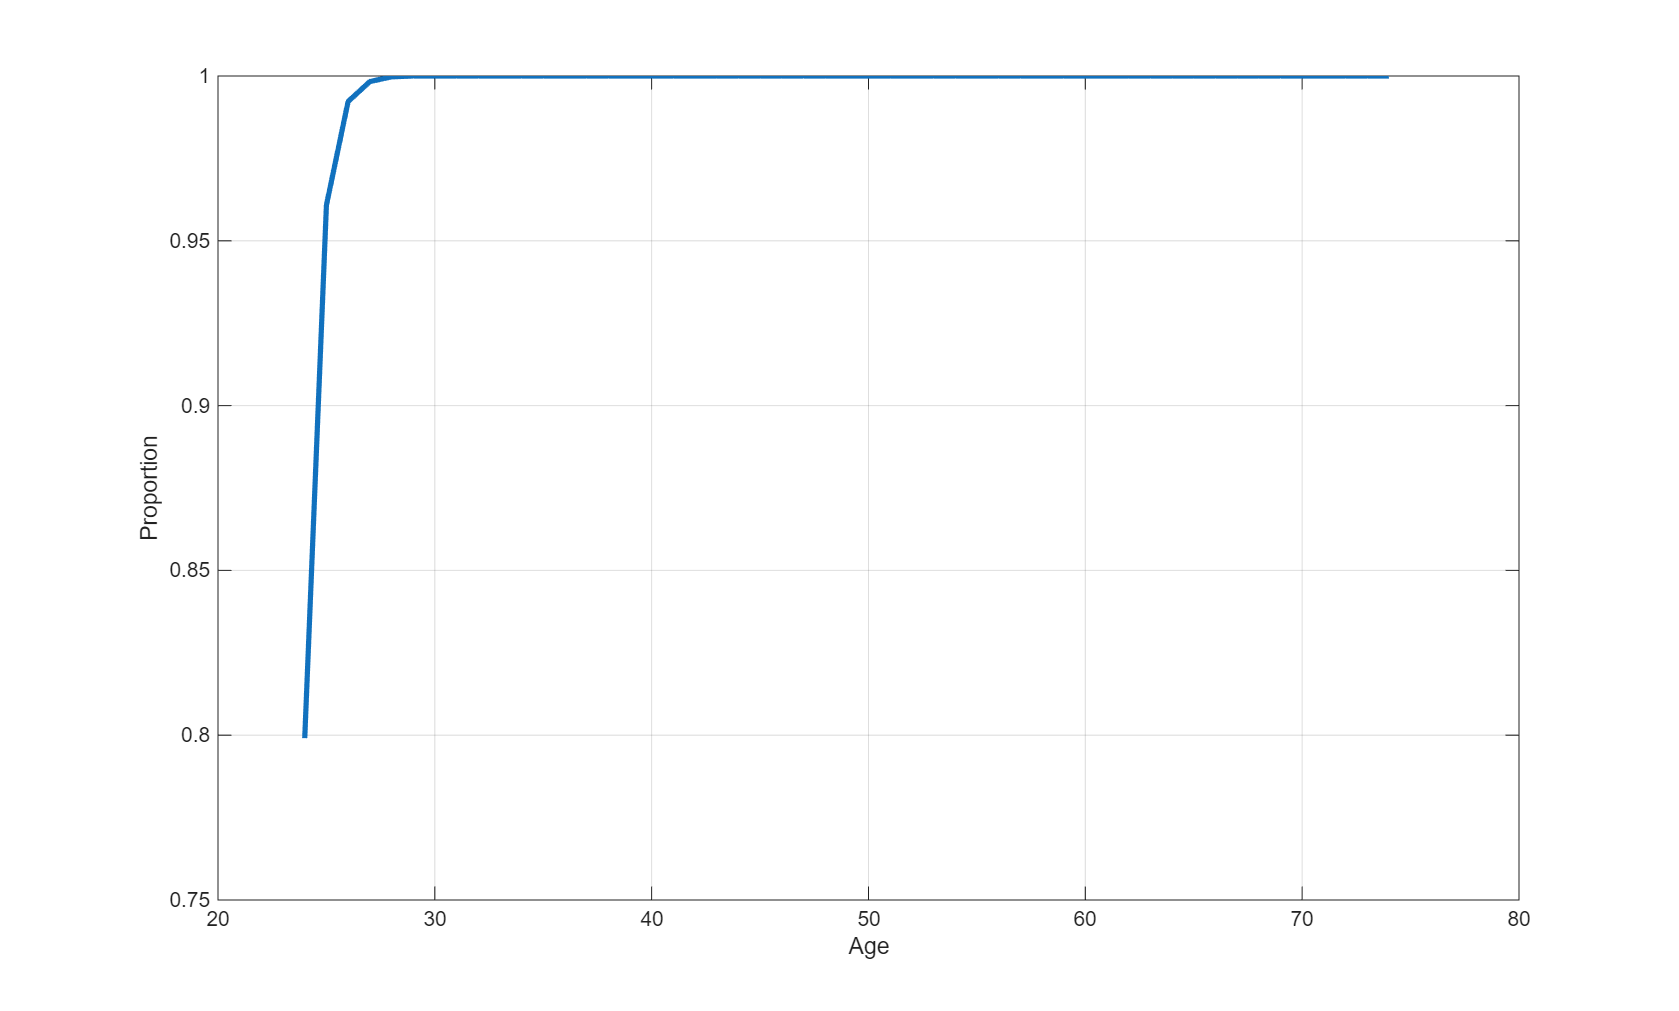
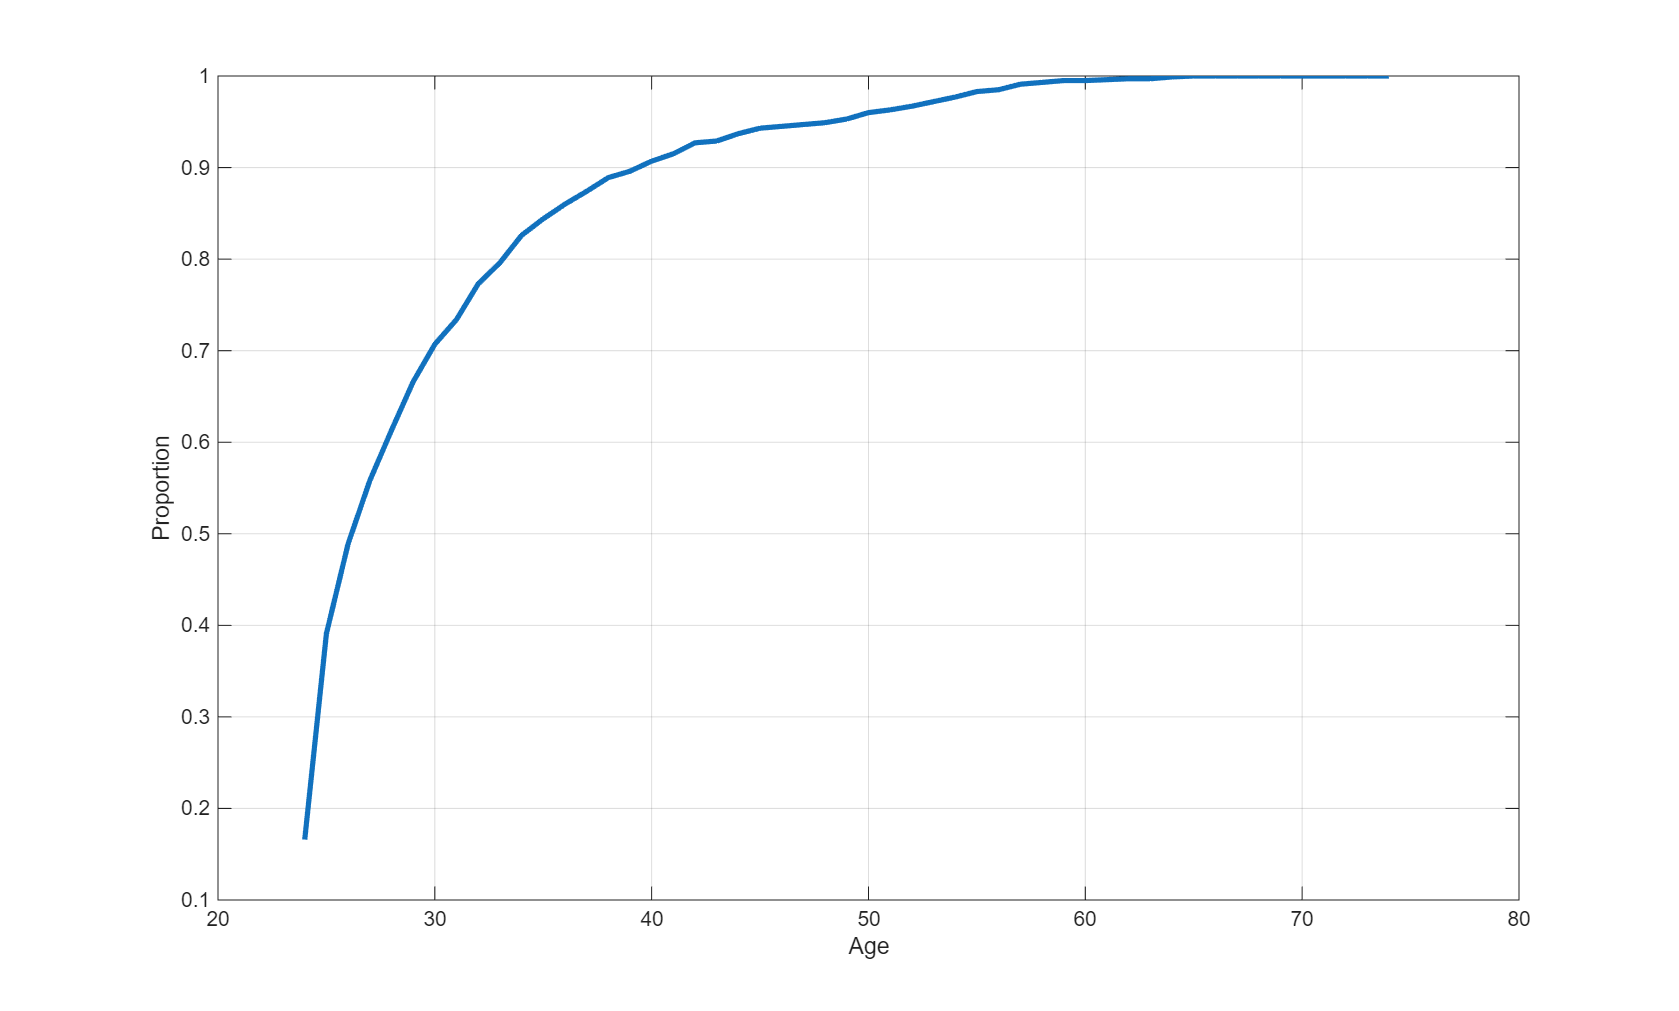
A2 updates

diff --git a/assignment_2/_functions/fnTauchenLogNormal.m b/assignment_2/_functions/fnTauchenLogNormal.m
@@ -8,11 +8,12 @@ function [vGrid, mTransition] = fnTauchenLogNormal(Parameters)
     N               = Parameters.pTauchenN;
     M               = Parameters.pTauchenM;
     Sigmaz          = Parameters.pSigmaz;
+    Rho             = Parameters.pRho;
 
     % Grid preparation
     vXGrid = zeros(M,1);
-    vXGrid(1)       = -N * Sigmaz;
-    vXGrid(end)     = N * Sigmaz;
+    vXGrid(1)       = -N * Sigmaz / sqrt(1-Rho^2);
+    vXGrid(end)     = N * Sigmaz/ sqrt(1-Rho^2);
     d               = (vXGrid(end)-vXGrid(1)) / (M-1);
     for iii         = 2:size(vXGrid,1)
         vXGrid(iii) = vXGrid(iii-1)+d;
@@ -22,10 +23,12 @@ function [vGrid, mTransition] = fnTauchenLogNormal(Parameters)
     % Transition probabilities 
     mTransition         = zeros(M,M);
     for jjj = 1:1:M
-        IntPlus             = (vXGrid(jjj) + d/2) / Sigmaz;
-        IntMinus            = (vXGrid(jjj) - d/2) / Sigmaz;
+        for iii = 1:1:M
+        IntPlus             = (vXGrid(jjj) + d/2 - vXGrid(iii)) / Sigmaz;
+        IntMinus            = (vXGrid(jjj) - d/2 - vXGrid(iii)) / Sigmaz;
         P                   = normcdf(IntPlus,0,1) -  normcdf(IntMinus,0,1);
-        mTransition(:,jjj)  = repmat(P,[M,1]);
+        mTransition(iii,jjj)= P;
+        end
     end
     
     % Ensure transition rows sum to 1 (they don't for N=1)

diff --git a/assignment_2/Main.m b/assignment_2/Main.m
@@ -16,7 +16,7 @@ LoadParameters;
 
 % Simulate the model
 tic;
-pSimulationsNumber  = 20000;
+pSimulationsNumber  = 1000;
 [~,~,VFs.mW,VFs.mN] = fnValueFunctionMatrices(Parameters,Grids);
 Simulations         = fnSimulationsSolver(Parameters,Grids,pSimulationsNumber,VFs);
 toc;
